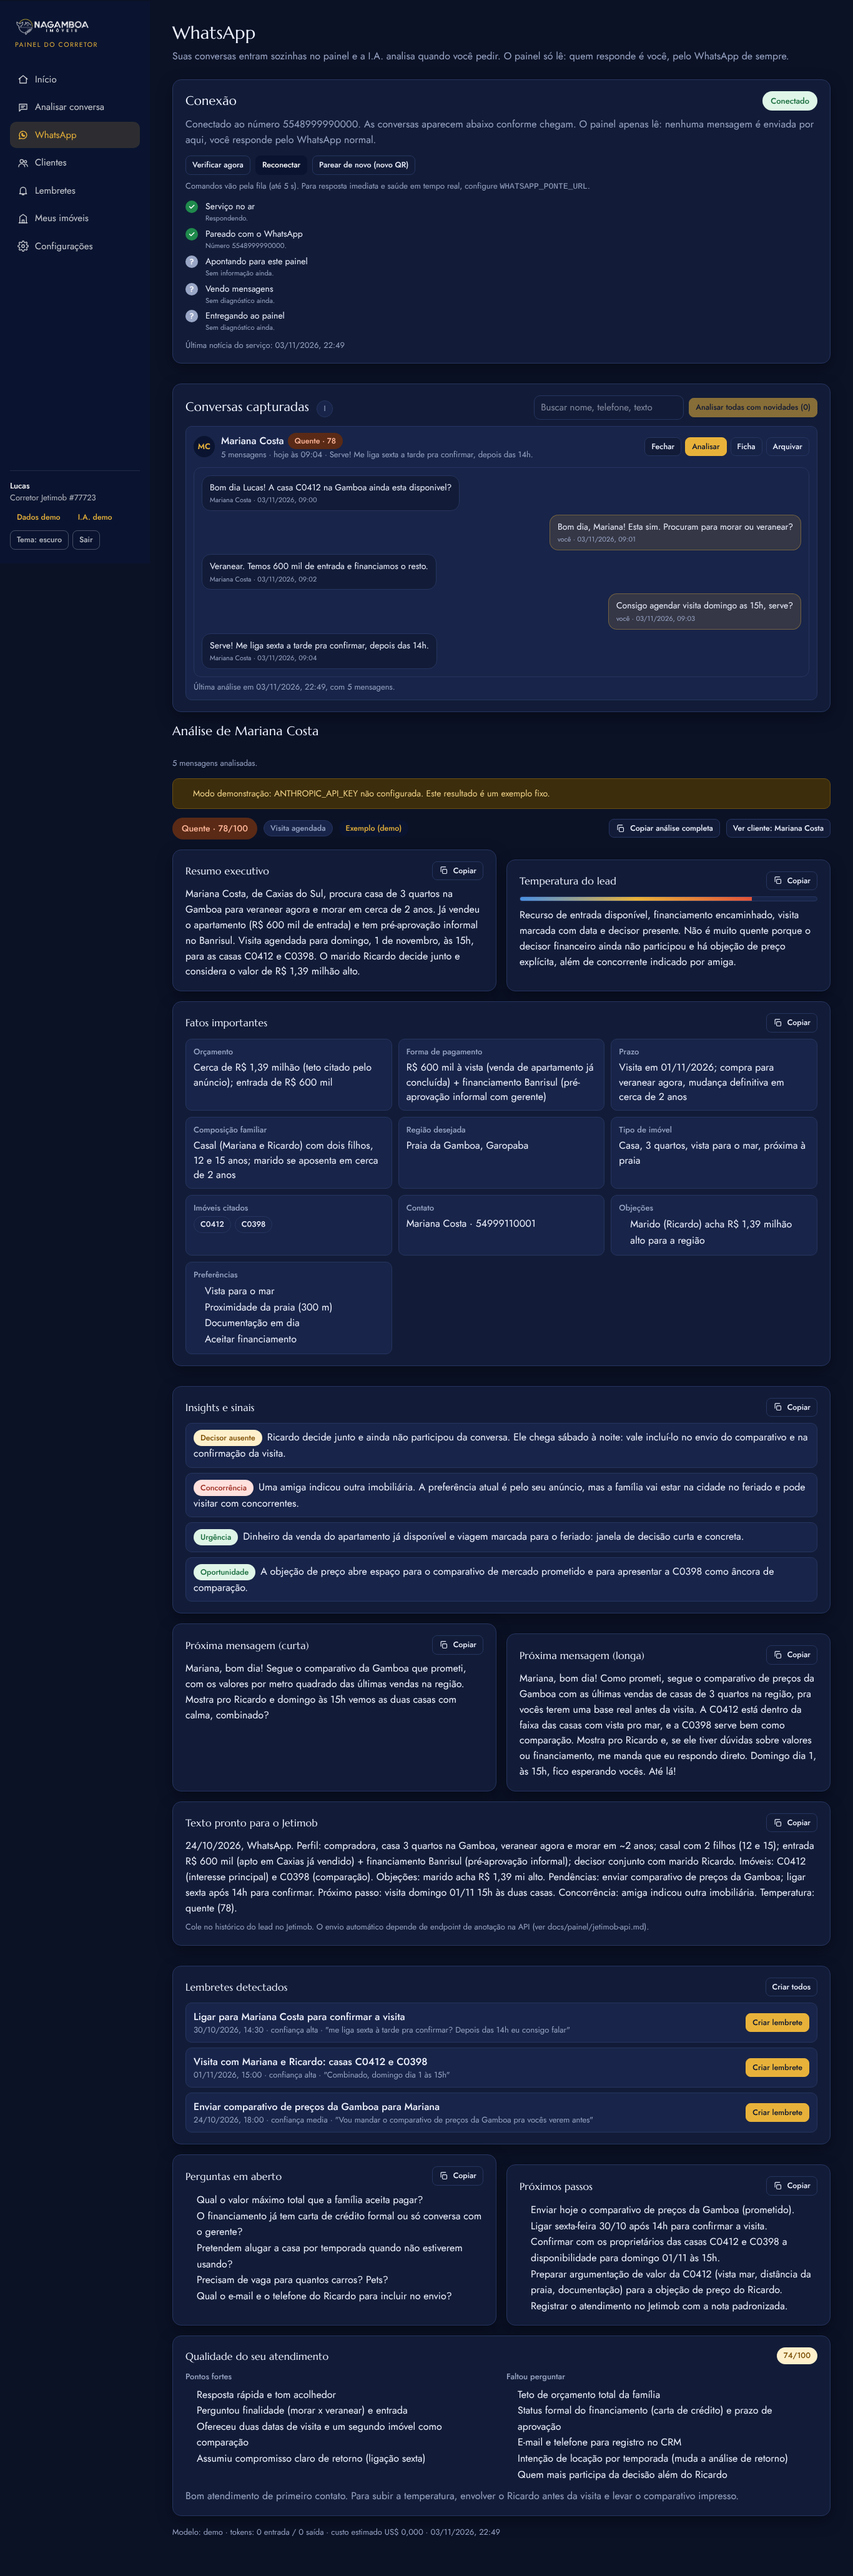
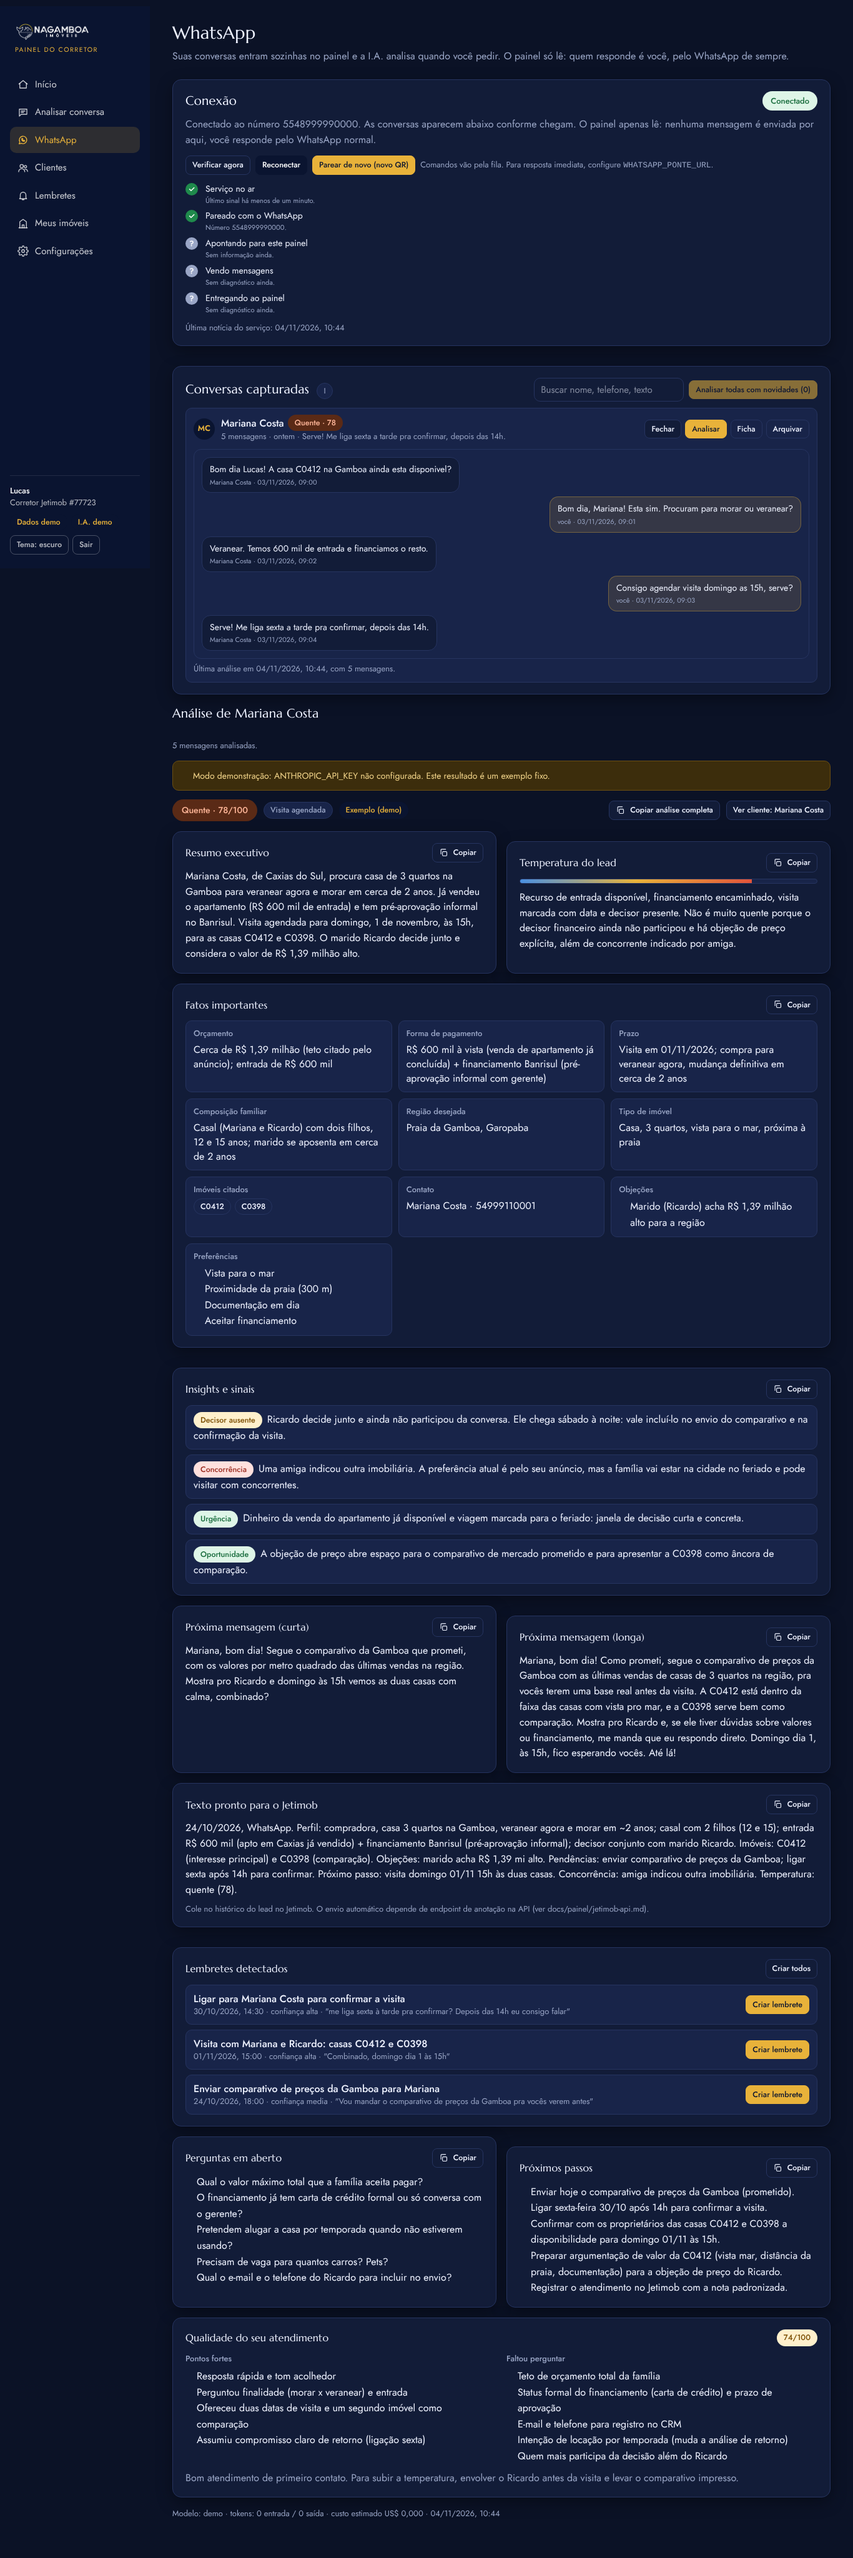
test(whatsapp): o caso da tela (QR escondido), pulso x comando, e QA nas duas configuracoes
Claude-Session: https://claude.ai/code/session_019QZGFfoLov9zRbBeaVy5hX

diff --git a/docs/painel/whatsapp.md b/docs/painel/whatsapp.md
@@ -144,12 +144,31 @@ Redeploy na Vercel depois. O endereço de saúde do serviço (`/saude`) responde
 sem token e não expõe mensagem nenhuma, só status e contadores. O comando
 (`POST /comando`) exige o token.
 
+### Como a tela decide se o serviço está vivo
+
+Duas fontes: o sinal de vida que o serviço grava no banco a cada 30 segundos
+(pela fila, sempre funciona) e a resposta do endereço direto, quando
+configurado. **Qualquer uma das duas prova que está vivo.** Só é "Serviço
+fora do ar" quando nenhuma responde. Se o endereço direto falhar mas o pulso
+estiver recente, a tela mostra o estado real (inclusive o QR) e acusa o
+endereço direto como problema de configuração, sem bloquear nada.
+
+Enquanto a conexão não está estável, a tela consulta a cada 2 segundos; nos
+25 segundos seguintes a um botão, a cada segundo, com um contador visível. O
+serviço, por sua vez, consulta a fila a cada 1,5 segundo durante os dois
+minutos seguintes a qualquer comando ou mudança de conexão, e a cada 5 fora
+disso.
+
 ### A lista de verificações
 
-Abaixo do status aparecem cinco verificações, cada uma com o motivo:
+Abaixo do status aparecem as verificações, cada uma com o motivo:
 
-1. **Serviço no ar**: responde (direto) ou mandou sinal de vida nos últimos
-   95 segundos (ele avisa a cada 30).
+1. **Serviço no ar**: respondeu no endereço direto ou mandou sinal de vida
+   nos últimos 95 segundos (ele avisa a cada 30).
+1. **Endereço direto do serviço** (só aparece com `WHATSAPP_PONTE_URL`):
+   se responde. Quando falha com o serviço vivo pela outra via, o problema é
+   o domínio ou a porta configurados no Railway, e os botões seguem
+   funcionando pela fila.
 2. **Pareado com o WhatsApp**: há sessão aberta com o número.
 3. **Apontando para este painel**: o `PAINEL_URL` do serviço é o endereço da
    tela aberta. Se estiver mandando para um preview ou para o endereço errado,
@@ -216,8 +235,13 @@ uma vez por deploy.
 registros no Railway: a ponte imprime o motivo.
 
 **Status fica em Conectando e volta para Desconectado.** Normalmente é sessão
-inválida. Desconecte o aparelho pelo celular, em Aparelhos conectados, e
-pareie de novo.
+inválida. Use **Parear de novo** na tela, ou desconecte o aparelho pelo
+celular, em Aparelhos conectados.
+
+**Desconectei pelo celular e a tela não oferece o QR.** O serviço gera o QR
+sozinho em poucos segundos ao perceber a desconexão. Se a tela não mostrar,
+clique em **Parear de novo**; o contador abaixo do aviso acompanha a resposta.
+Se o aviso vermelho disser que o serviço não responde, aí é na hospedagem.
 
 **Conectou mas não chega mensagem.** Primeiro confira os registros do Railway:
 a cada lote a ponte escreve uma linha como `lote notify: 1 aceita(s)`, ou diz
